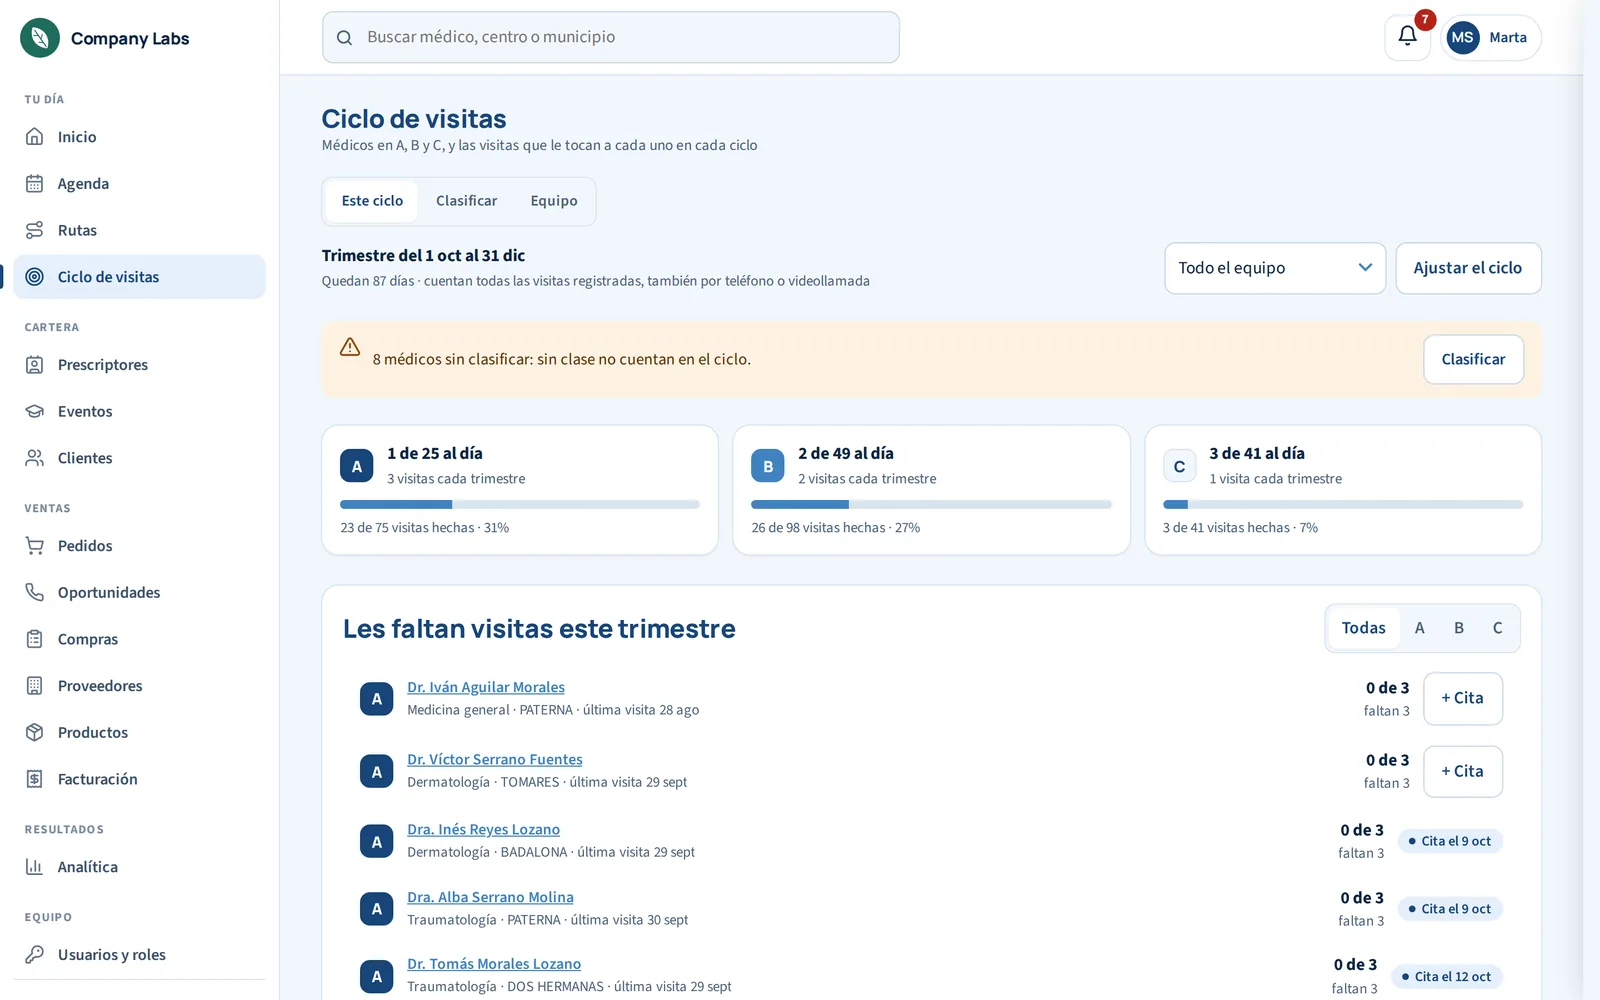
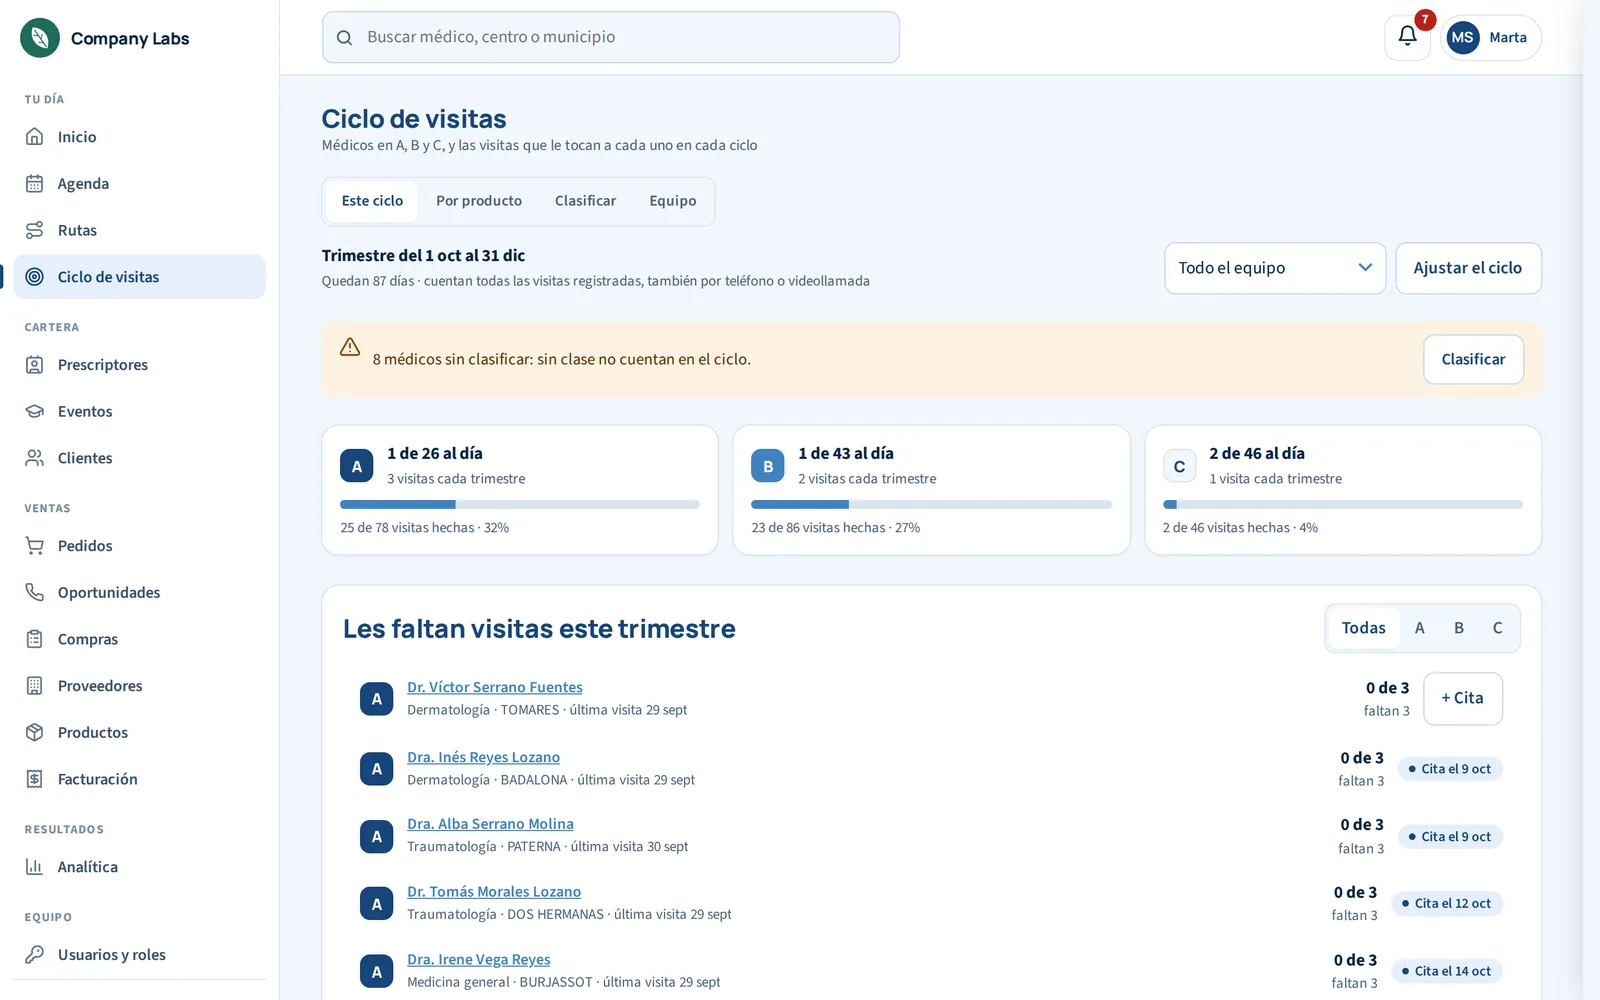
Ciclo de visitas: cobertura por producto
Tesela nueva «Cobertura por producto» junto a Ciclo de visitas, con su captura
real (app v2.198.0, Company Labs); captura del ciclo actualizada. Eventos pasa
junto a Equipo. Inglés regenerado.

diff --git a/en/index.html b/en/index.html
@@ -1195,10 +1195,11 @@ const MODULOS = [
   { g: 'g6', ojo: 'History', t: 'Any change, undone in one click', d: 'Administrators see on each record who changed what, when and what was there before.', img: 'labs_e_historial' },
   { g: 'g6', ojo: 'Notifications', t: 'Every alert, with its action one click away', d: 'Grouped by day. Each person chooses what arrives instantly and what goes into the daily summary.', img: 'labs_e_notificaciones' },
   { g: 'g6', ojo: 'Visit cycle', t: 'Everyone gets the visits they need', d: 'Sort your portfolio into A, B and C and set how many visits each class needs per cycle. See who is behind and book them in one click.', img: 'labs_e_ciclo' },
-  { g: 'g6', ojo: 'Events', t: 'Workshops, courses and congresses, in order', d: 'Attendees, registrations and expenses for every event, linked to each professional’s record. Each year, the summary by professional for your compliance officer to review.', img: 'labs_e_eventos' },
+  { g: 'g6', ojo: 'Coverage by product', t: 'Each product, and who has heard about it', d: 'Mark the products you promote and see, each cycle, how many A, B and C professionals know them and who is still missing, with an appointment in one click.', img: 'labs_e_ciclo_producto' },
+  { g: 'g8', ojo: 'Events', t: 'Workshops, courses and congresses, in order', d: 'Attendees, registrations and expenses for every event, linked to each professional’s record. Each year, the summary by professional for your compliance officer to review.', img: 'labs_e_eventos' },
   { g: '', ojo: 'Team', t: 'Users, roles and permissions', d: 'Each person sees and does what is theirs and, on the computer, arranges their own menu.', img: 'labs_e_usuarios' },
-  { g: '', ojo: 'Import', t: 'Start with your own data from day one', d: 'Clients, products, records and sales from Excel or CSV, with a preview.', img: 'labs_e_importar' },
-  { g: '', ojo: 'Catalogues', t: 'Make it fit your company, no coding', d: 'Specialties, reasons, outcomes and custom fields, with no coding.', img: 'labs_e_clasificadores' }
+  { g: 'g6', ojo: 'Import', t: 'Start with your own data from day one', d: 'Clients, products, records and sales from Excel or CSV, with a preview.', img: 'labs_e_importar' },
+  { g: 'g6', ojo: 'Catalogues', t: 'Make it fit your company, no coding', d: 'Specialties, reasons, outcomes and custom fields, with no coding.', img: 'labs_e_clasificadores' }
 ];
 const RAZONES = [
   ['Speaks your language', 'Doctor, clinic, pharmacy or hospital contact; “Interested”, “Active client” or “Approved”. Each company sets its own words and stages.'],
@@ -1477,13 +1478,13 @@ addEventListener('scroll', alDesplazar, { passive: true }); alDesplazar();
 /* ================= menú desplegable de la cabecera ================= */
 const MENU_PLAT = [
   ['Field', [['Accounts', 'Professionals, centres and their history', 'labs_e_directorio', 0], ['Calendar', 'Your day, your week and your month', 'labs_e_agenda', 2],
-    ['Routes', 'Proposed every morning', 'labs_e_rutas', 3], ['Visit cycle', 'A, B and C, with their visits per cycle', 'labs_e_ciclo', 17], ['Duplicates', 'One person, one record', 'labs_e_calidad', 1], ['Events', 'Workshops, courses and congresses, in order', 'labs_e_eventos', 18]]],
+    ['Routes', 'Proposed every morning', 'labs_e_rutas', 3], ['Visit cycle', 'A, B and C, with their visits per cycle', 'labs_e_ciclo', 17], ['Duplicates', 'One person, one record', 'labs_e_calidad', 1], ['Events', 'Workshops, courses and congresses, in order', 'labs_e_eventos', 19]]],
   ['Sales', [['Orders', 'From visit to order', 'labs_e_ventas', 4], ['New sale and opportunities', 'Measure the sales that don’t close, too', 'pharma_e_oportunidades', 6],
     ['Commissions', 'Commissions calculated for you, every month', 'labs_e_comisiones', 12], ['Analytics', 'How the business is doing, against last year', 'labs_e_analitica', 13],
     ['Web orders', 'With their filter, their summary and the payment reference', 'pharma_e_pedidos_web', 7]]],
   ['Office', [['Warehouse and batches', 'Stock by batch and expiry', 'labs_e_stock', 9], ['Purchasing', 'Suppliers and purchase orders', 'labs_e_compras', 10],
     ['Invoicing', 'VeriFactu, credit notes and payments', 'labs_e_facturas', 11], ['History', 'Any change, undone in one click', 'labs_e_historial', 15],
-    ['Team and permissions', 'Each role sees and does its own part', 'labs_e_usuarios', 19]]]
+    ['Team and permissions', 'Each role sees and does its own part', 'labs_e_usuarios', 20]]]
 ];
 const previa = (img, pie) => `<div class="previa"><div class="ordenador"><div class="barra"><i></i><i></i><i></i></div><div class="vista"><img src="${cap(img)}" alt="" width="1600" height="1000"><img class="fuera" alt="" width="1600" height="1000"></div></div><p>${pie}</p></div>`;
 let ni = 0;

diff --git a/index.html b/index.html
@@ -1195,10 +1195,11 @@ const MODULOS = [
   { g: 'g6', ojo: 'Historial', t: 'Cualquier cambio, deshecho con un clic', d: 'La administración ve en cada ficha quién cambió qué, cuándo y lo que había antes.', img: 'labs_e_historial' },
   { g: 'g6', ojo: 'Notificaciones', t: 'Cada aviso, con su acción a un clic', d: 'Agrupados por día. Cada persona elige qué le llega al momento y qué en el resumen del día.', img: 'labs_e_notificaciones' },
   { g: 'g6', ojo: 'Ciclo de visitas', t: 'A cada uno, las visitas que le tocan', d: 'Clasifica tu cartera en A, B y C y fija cuántas visitas pide cada clase por ciclo. Ves a quién le faltan y le das cita en un clic.', img: 'labs_e_ciclo' },
-  { g: 'g6', ojo: 'Eventos', t: 'Talleres, cursos y congresos, en orden', d: 'Asistentes, inscripciones y gastos de cada evento, unidos a la ficha de cada profesional. Cada año, el resumen por profesional para que lo revise tu responsable de cumplimiento.', img: 'labs_e_eventos' },
+  { g: 'g6', ojo: 'Cobertura por producto', t: 'Cada producto, a quién se le ha presentado', d: 'Marca los productos que promocionas y ve en cada ciclo cuántos profesionales de A, B y C los conocen y a quién le falta, con cita en un clic.', img: 'labs_e_ciclo_producto' },
+  { g: 'g8', ojo: 'Eventos', t: 'Talleres, cursos y congresos, en orden', d: 'Asistentes, inscripciones y gastos de cada evento, unidos a la ficha de cada profesional. Cada año, el resumen por profesional para que lo revise tu responsable de cumplimiento.', img: 'labs_e_eventos' },
   { g: '', ojo: 'Equipo', t: 'Usuarios, roles y permisos', d: 'Cada persona ve y hace lo que le toca y, en el ordenador, ordena su propio menú.', img: 'labs_e_usuarios' },
-  { g: '', ojo: 'Importar', t: 'Empieza con tus datos desde el primer día', d: 'Clientes, productos, fichas y ventas desde Excel o CSV, con vista previa.', img: 'labs_e_importar' },
-  { g: '', ojo: 'Catálogos', t: 'Adáptala a tu empresa sin programar', d: 'Especialidades, motivos, resultados y campos propios, sin programar.', img: 'labs_e_clasificadores' }
+  { g: 'g6', ojo: 'Importar', t: 'Empieza con tus datos desde el primer día', d: 'Clientes, productos, fichas y ventas desde Excel o CSV, con vista previa.', img: 'labs_e_importar' },
+  { g: 'g6', ojo: 'Catálogos', t: 'Adáptala a tu empresa sin programar', d: 'Especialidades, motivos, resultados y campos propios, sin programar.', img: 'labs_e_clasificadores' }
 ];
 const RAZONES = [
   ['Habla tu idioma', 'Médico, clínica, farmacia o contacto de hospital; «Interesado», «Cliente activa» u «Homologado». Cada empresa pone sus palabras y sus estados.'],
@@ -1477,13 +1478,13 @@ addEventListener('scroll', alDesplazar, { passive: true }); alDesplazar();
 /* ================= menú desplegable de la cabecera ================= */
 const MENU_PLAT = [
   ['Campo', [['Cartera', 'Profesionales, centros y su historial', 'labs_e_directorio', 0], ['Agenda', 'Tu día, tu semana y tu mes', 'labs_e_agenda', 2],
-    ['Rutas', 'Propuestas cada mañana', 'labs_e_rutas', 3], ['Ciclo de visitas', 'A, B y C, con sus visitas por ciclo', 'labs_e_ciclo', 17], ['Duplicados', 'Una persona, una sola ficha', 'labs_e_calidad', 1], ['Eventos', 'Talleres, cursos y congresos, en orden', 'labs_e_eventos', 18]]],
+    ['Rutas', 'Propuestas cada mañana', 'labs_e_rutas', 3], ['Ciclo de visitas', 'A, B y C, con sus visitas por ciclo', 'labs_e_ciclo', 17], ['Duplicados', 'Una persona, una sola ficha', 'labs_e_calidad', 1], ['Eventos', 'Talleres, cursos y congresos, en orden', 'labs_e_eventos', 19]]],
   ['Venta', [['Pedidos', 'De la visita al pedido', 'labs_e_ventas', 4], ['Nueva venta y oportunidades', 'Mide también las ventas que no se cierran', 'pharma_e_oportunidades', 6],
     ['Comisiones', 'Comisiones calculadas solas, cada mes', 'labs_e_comisiones', 12], ['Analítica', 'Cómo va el negocio, frente al año pasado', 'labs_e_analitica', 13],
     ['Pedidos por la web', 'Con su filtro, su resumen y la referencia del pago', 'pharma_e_pedidos_web', 7]]],
   ['Oficina', [['Almacén y lotes', 'Stock por lote y caducidad', 'labs_e_stock', 9], ['Compras', 'Proveedores y pedidos de compra', 'labs_e_compras', 10],
     ['Facturación', 'VeriFactu, rectificativas y cobros', 'labs_e_facturas', 11], ['Historial', 'Cualquier cambio, deshecho con un clic', 'labs_e_historial', 15],
-    ['Equipo y permisos', 'Cada rol ve y hace lo suyo', 'labs_e_usuarios', 19]]]
+    ['Equipo y permisos', 'Cada rol ve y hace lo suyo', 'labs_e_usuarios', 20]]]
 ];
 const previa = (img, pie) => `<div class="previa"><div class="ordenador"><div class="barra"><i></i><i></i><i></i></div><div class="vista"><img src="${cap(img)}" alt="" width="1600" height="1000"><img class="fuera" alt="" width="1600" height="1000"></div></div><p>${pie}</p></div>`;
 let ni = 0;
